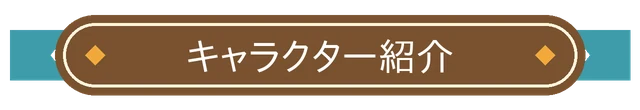
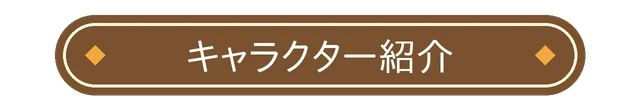
LP修正: 見出し下の色レイヤー削除・追従バー常時表示・KVのキャラ差し替え
Claude-Session: https://claude.ai/code/session_01FipkPL4XiKKYDnwT2pE8sa

Changed region(s): [[0.875, 0.2727, 1.0, 0.7364], [0.0, 0.2727, 0.125, 0.7364]]

diff --git a/lp/index.html b/lp/index.html
@@ -143,9 +143,9 @@
             </li>
             <li class="slider__slide">
               <article class="chara-card">
-                <h3 class="chara-card__name">ぴょん太（仮）</h3>
+                <h3 class="chara-card__name">モカ（仮）</h3>
                 <img class="chara-card__image" src="assets/img/chara_3.webp" width="400" height="400" alt="" loading="lazy">
-                <p class="chara-card__text">元気いっぱいの食いしんぼう。ぴょんぴょん跳ねてブロックを集める。</p>
+                <p class="chara-card__text">元気いっぱいの食いしんぼう。ちょこちょこ走り回ってブロックを集める。</p>
               </article>
             </li>
             <li class="slider__slide">
@@ -186,15 +186,15 @@
     </footer>
   </div>
 
-  <!-- C01 追従 CTA バー（S02 と同デザイン） -->
-  <aside class="follow-bar" id="c01" aria-label="事前登録" aria-hidden="true">
+  <!-- C01 追従 CTA バー（S02 と同デザイン・常時表示） -->
+  <aside class="follow-bar" id="c01" aria-label="事前登録">
     <div class="follow-bar__inner">
       <p class="cta__lead">いますぐ事前登録！</p>
       <div class="store-buttons">
-        <a class="store-button store-button--ios" data-href="store.ios" href="#" tabindex="-1">
+        <a class="store-button store-button--ios" data-href="store.ios" href="#">
           <img src="assets/img/badge_appstore.webp" width="360" height="108" alt="App Store で事前登録" loading="lazy">
         </a>
-        <a class="store-button store-button--android" data-href="store.android" href="#" tabindex="-1">
+        <a class="store-button store-button--android" data-href="store.android" href="#">
           <img src="assets/img/badge_googleplay.webp" width="360" height="108" alt="Google Play で事前登録" loading="lazy">
         </a>
       </div>

diff --git a/lp/assets/js/main.js b/lp/assets/js/main.js
@@ -18,39 +18,6 @@
     a.rel = "noopener noreferrer";
   });
 
-  /* ---------- C01 追従 CTA バー ----------
-   * 状態A: S02 が画面内 → 非表示
-   * 状態B: S02 が画面より上に抜けた → 表示
-   * 状態C: フッター到達時も表示継続（末尾の余白は CSS 側で確保）
-   */
-  var cta = document.getElementById("s02");
-  var bar = document.getElementById("c01");
-
-  function setBarVisible(visible) {
-    bar.classList.toggle("is-visible", visible);
-    bar.setAttribute("aria-hidden", visible ? "false" : "true");
-    bar.querySelectorAll("a").forEach(function (a) {
-      a.tabIndex = visible ? 0 : -1;
-    });
-  }
-
-  if (cta && bar) {
-    setBarVisible(false);
-    if ("IntersectionObserver" in window) {
-      new IntersectionObserver(function (entries) {
-        var e = entries[0];
-        // 画面下にある（まだ到達していない）間は出さない。上に抜けたら出す。
-        setBarVisible(!e.isIntersecting && e.boundingClientRect.top < 0);
-      }).observe(cta);
-    } else {
-      var onScroll = function () {
-        setBarVisible(cta.getBoundingClientRect().bottom < 0);
-      };
-      window.addEventListener("scroll", onScroll, { passive: true });
-      onScroll();
-    }
-  }
-
   /* ---------- スライダー（S04 / S05）: 左右矢印 + ドット + スワイプ ---------- */
   document.querySelectorAll("[data-slider]").forEach(function (slider) {
     var track = slider.querySelector(".slider__track");

diff --git a/lp/assets/css/style.css b/lp/assets/css/style.css
@@ -131,23 +131,13 @@ a {
 }
 
 /* ---------- C01 追従 CTA バー ---------- */
+/* 初期表示から常に画面下部に固定表示 */
 .follow-bar {
   position: fixed;
   left: 0;
   right: 0;
   bottom: 0;
   z-index: 100;
-  pointer-events: none;
-  transform: translateY(100%);
-  visibility: hidden;
-  transition: transform 0.3s ease, visibility 0s linear 0.3s;
-}
-
-.follow-bar.is-visible {
-  pointer-events: auto;
-  transform: translateY(0);
-  visibility: visible;
-  transition: transform 0.3s ease, visibility 0s;
 }
 
 .follow-bar__inner {
@@ -368,7 +358,7 @@ a {
 /* ---------- S07 フッター ---------- */
 .footer {
   padding: 24px 16px;
-  /* 状態C: フッター到達時も C01 にフッターが隠れないよう、末尾にバー分の余白 */
+  /* C01 にフッターが隠れないよう、末尾にバー分の余白 */
   padding-bottom: calc(24px + var(--bar-h) + env(safe-area-inset-bottom));
   background: var(--c-brown);
   color: var(--c-white);
@@ -387,11 +377,4 @@ a {
   margin-top: 12px;
   font-size: 10px;
   opacity: 0.85;
-}
-
-@media (prefers-reduced-motion: reduce) {
-  .follow-bar,
-  .follow-bar.is-visible {
-    transition: none;
-  }
 }

diff --git a/lp/tools/generate_placeholder_images.py b/lp/tools/generate_placeholder_images.py
@@ -61,9 +61,9 @@ def draw_critter(d, cx, cy, r, color, ear="round"):
         for sign in (-1, 1):
             d.polygon([s(cx + sign * r * 0.85, cy - r * 0.3), s(cx + sign * r * 0.75, cy - r * 1.05),
                        s(cx + sign * r * 0.2, cy - r * 0.8)], fill=color)
-    elif ear == "long":
-        for dx in (-0.35, 0.35):
-            d.ellipse(s(cx + dx * r - r * 0.2, cy - r * 1.6, cx + dx * r + r * 0.2, cy - r * 0.5), fill=color)
+    elif ear == "small":
+        for dx in (-0.6, 0.6):
+            d.ellipse(s(cx + dx * r - r * 0.22, cy - r * 0.85, cx + dx * r + r * 0.22, cy - r * 0.45), fill=color)
     d.ellipse(s(cx - r, cy - r * 0.85, cx + r, cy + r * 0.95), fill=color)
     d.ellipse(s(cx - r * 0.45, cy + r * 0.05, cx + r * 0.45, cy + r * 0.6), fill=WHITE)
     for dx in (-0.38, 0.38):
@@ -94,7 +94,7 @@ def kv():
     block_grid(d, 110, 600, 7, 3, 64, 12, seed=2)
     draw_critter(d, 250, 420, 110, (214, 160, 110), "round")
     draw_critter(d, 500, 440, 90, WHITE, "cat")
-    draw_critter(d, 375, 520, 70, (250, 210, 120), "long")
+    draw_critter(d, 375, 520, 70, (250, 210, 120), "small")
     center_text(d, 690, 880, "※仮素材", 20, BROWN)
     save(img, "kv.webp", w, h)
 
@@ -110,8 +110,6 @@ def logo():
 def heading(name, text):
     w, h = 640, 110
     img, d = canvas(w, h, (0, 0, 0, 0))
-    d.polygon([s(10, 30), s(70, 30), s(50, 55), s(70, 80), s(10, 80)], fill=TEAL)
-    d.polygon([s(630, 30), s(570, 30), s(590, 55), s(570, 80), s(630, 80)], fill=TEAL)
     d.rounded_rectangle(s(55, 15, 585, 95), radius=40 * SS, fill=BROWN)
     d.rounded_rectangle(s(63, 23, 577, 87), radius=32 * SS, outline=CREAM, width=3 * SS)
     center_text(d, 320, 56, text, 38, WHITE)
@@ -155,7 +153,7 @@ def screenshot(name, idx):
         d.rounded_rectangle(s(330, 300, 460, 420), radius=10 * SS, fill=WHITE, outline=BROWN, width=6 * SS)
         draw_critter(d, 380, 640, 80, WHITE, "cat")
     else:
-        for i, (c, ear) in enumerate([((214, 160, 110), "round"), (WHITE, "cat"), ((250, 210, 120), "long"), (BLUE, "round")]):
+        for i, (c, ear) in enumerate([((214, 160, 110), "round"), (WHITE, "cat"), ((250, 210, 120), "small"), (BLUE, "round")]):
             cx = 150 + (i % 2) * 240
             cy = 360 + (i // 2) * 300
             d.rounded_rectangle(s(cx - 110, cy - 130, cx + 110, cy + 130), radius=30 * SS, fill=WHITE)
@@ -213,7 +211,7 @@ def main():
         reward(f"reward_{i}.webp", k)
     for i in range(3):
         screenshot(f"ss_{i + 1}.webp", i)
-    for i, (c, e) in enumerate([((214, 160, 110), "round"), (WHITE, "cat"), ((250, 210, 120), "long"), (BLUE, "round")], 1):
+    for i, (c, e) in enumerate([((214, 160, 110), "round"), (WHITE, "cat"), ((250, 210, 120), "small"), (BLUE, "round")], 1):
         chara(f"chara_{i}.webp", c, e)
     arrow("arrow_left.webp", "left")
     arrow("arrow_right.webp", "right")
